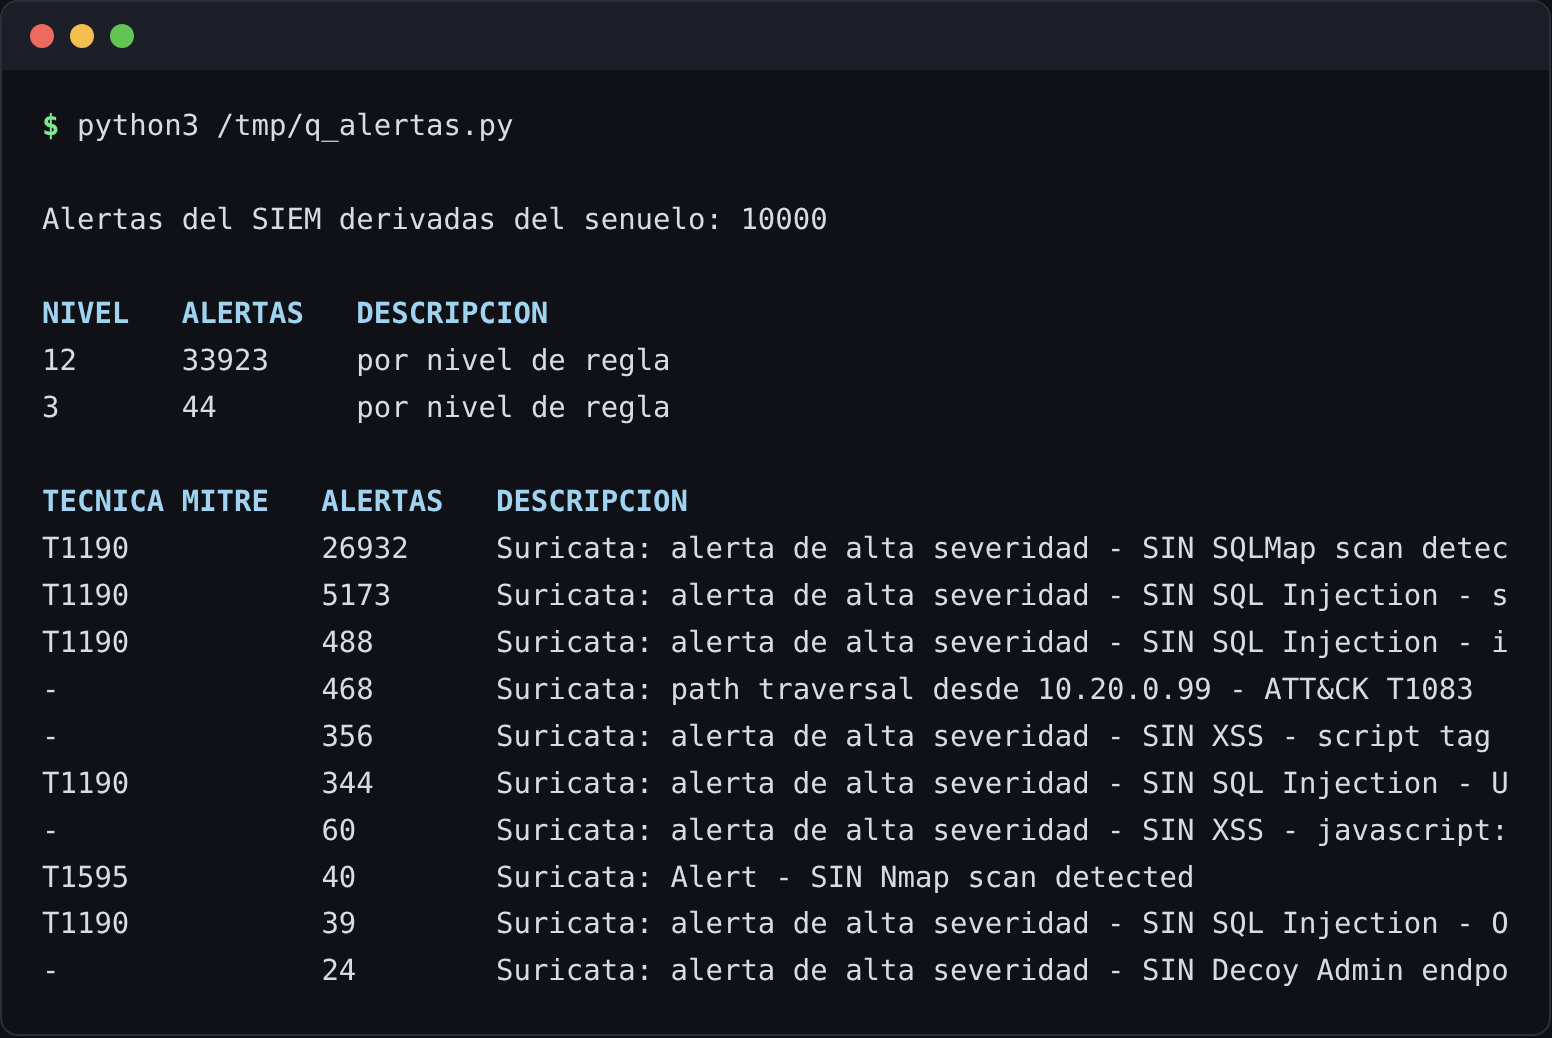
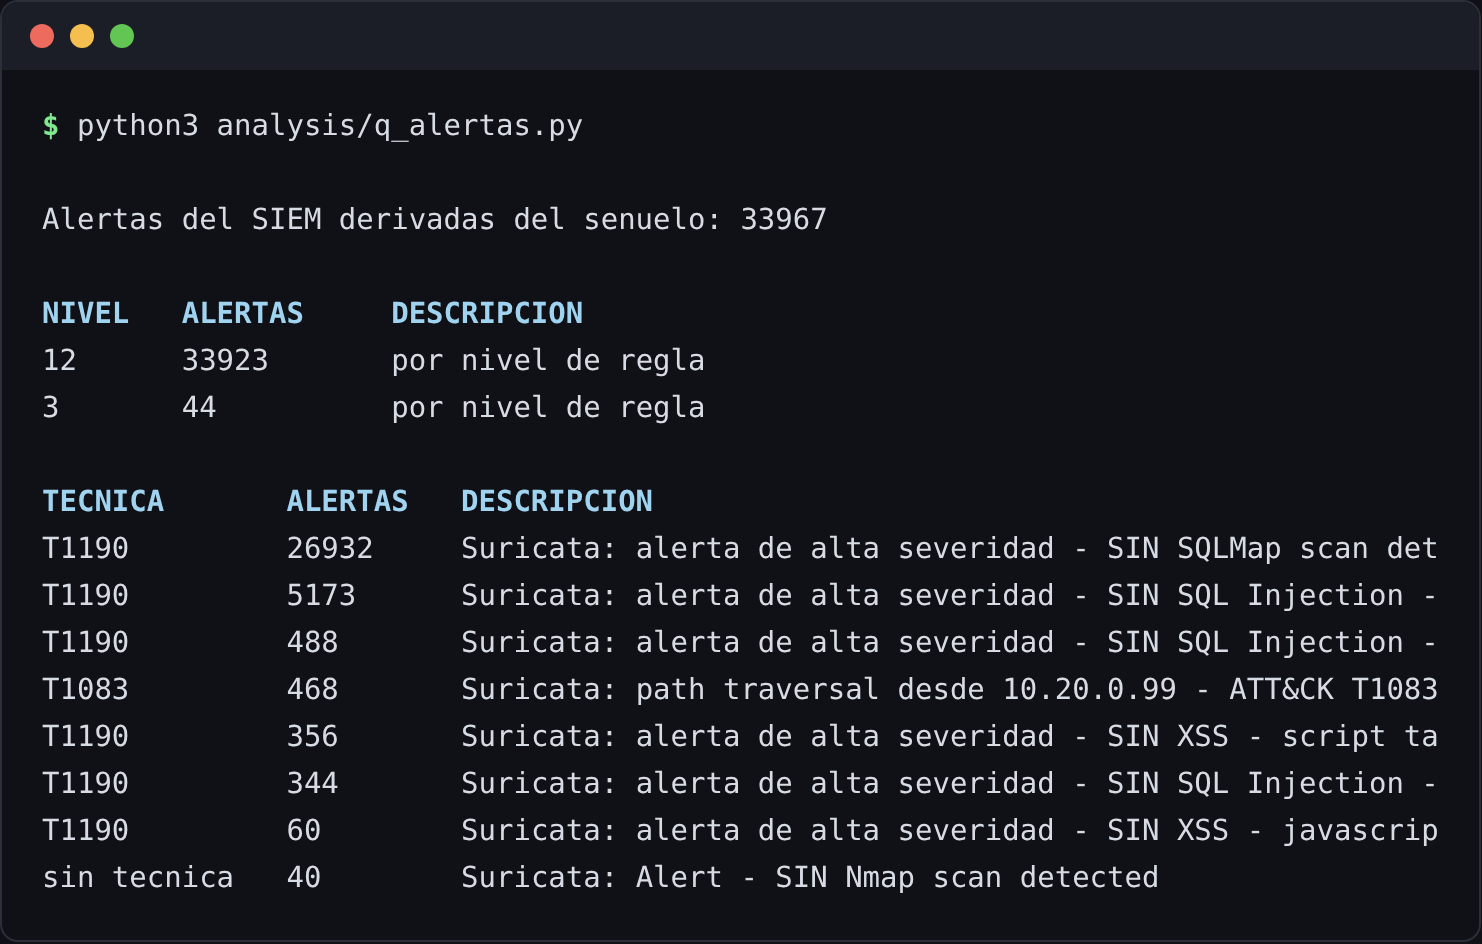
[P2] fix: filebeat neutralizado y publicador sin duplicados (193 reinicios acumulados)
El manager estaba en un bucle de reinicios: filebeat abortaba con SIGABRT y
s6 interpretaba la caida del servicio como fin del contenedor, con lo que
Docker lo reiniciaba. Se acumula ron 193 reinicios y el manager no era fiable
para capturar evidencia.

- 30-sin-publisher.sh aparta el binario real de filebeat a
  filebeat.sin-indexar y deja en su lugar un equivalente que solo espera. s6
  obtiene su servicio vivo y la indexacion sigue siendo del publicador, que no
  depende de filebeat. No sirve parchear el script de arranque de s6 porque
  /run/s6/services se crea despues de correr los entrypoint scripts.
- El control de duplicados del publicador pasa de pgrep a fichero de PID:
  pgrep contaba como coincidencia los propios procesos de consulta del script y
  el publicador llegaba a arrancar dos veces indexando en paralelo.
- Se elimina un bloque mkdir/cp duplicado en el script.

Ademas se regenera la figura de alertas del SIEM con analysis/q_alertas.py, que
lee la tecnica MITRE del propio documento y pide el total real: la version
anterior atribuia T1190 a reglas que no eran SQLi y mostraba un total topeado
por el indice.

Estado tras el arreglo: 25/25 contenedores, 0 reinicios, siete servicios
autenticados en 200 y 17/17 + 16/16 figuras verificadas.

diff --git a/evidencias/v2.1-it2/04-captura-eventos/01_wazuh-alertas-ids.html b/evidencias/v2.1-it2/04-captura-eventos/01_wazuh-alertas-ids.html
@@ -24,4 +24,4 @@
   .hueco { color:#0f1116; }
 </style></head>
 <body><div class="win"><div class="barra"><i class="p1"></i><i class="p2"></i><i class="p3"></i></div>
-<div class="cuerpo" id="c"><div class="l cmd"><span class="prompt">$ </span>python3 /tmp/q_alertas.py</div><div class="l">&nbsp;</div><div class="l">Alertas del SIEM derivadas del senuelo: 10000</div><div class="l">&nbsp;</div><div class="l"><span class="cab">NIVEL   ALERTAS   DESCRIPCION</span></div><div class="l"><span class="">12</span><span class="hueco">      </span>33923     por nivel de regla</div><div class="l"><span class="">3</span><span class="hueco">       </span>44        por nivel de regla</div><div class="l">&nbsp;</div><div class="l"><span class="cab">TECNICA MITRE   ALERTAS   DESCRIPCION</span></div><div class="l"><span class="">T1190</span><span class="hueco">           </span>26932     Suricata: alerta de alta severidad - SIN SQLMap scan detec</div><div class="l"><span class="">T1190</span><span class="hueco">           </span>5173      Suricata: alerta de alta severidad - SIN SQL Injection - s</div><div class="l"><span class="">T1190</span><span class="hueco">           </span>488       Suricata: alerta de alta severidad - SIN SQL Injection - i</div><div class="l"><span class="">-</span><span class="hueco">               </span>468       Suricata: path traversal desde 10.20.0.99 - ATT&amp;CK T1083</div><div class="l"><span class="">-</span><span class="hueco">               </span>356       Suricata: alerta de alta severidad - SIN XSS - script tag</div><div class="l"><span class="">T1190</span><span class="hueco">           </span>344       Suricata: alerta de alta severidad - SIN SQL Injection - U</div><div class="l"><span class="">-</span><span class="hueco">               </span>60        Suricata: alerta de alta severidad - SIN XSS - javascript:</div><div class="l"><span class="">T1595</span><span class="hueco">           </span>40        Suricata: Alert - SIN Nmap scan detected</div><div class="l"><span class="">T1190</span><span class="hueco">           </span>39        Suricata: alerta de alta severidad - SIN SQL Injection - O</div><div class="l"><span class="">-</span><span class="hueco">               </span>24        Suricata: alerta de alta severidad - SIN Decoy Admin endpo</div></div></div></body></html>
+<div class="cuerpo" id="c"><div class="l cmd"><span class="prompt">$ </span>python3 analysis/q_alertas.py</div><div class="l">&nbsp;</div><div class="l">Alertas del SIEM derivadas del senuelo: 33967</div><div class="l">&nbsp;</div><div class="l"><span class="cab">NIVEL   ALERTAS     DESCRIPCION</span></div><div class="l"><span class="">12</span><span class="hueco">      </span>33923       por nivel de regla</div><div class="l"><span class="">3</span><span class="hueco">       </span>44          por nivel de regla</div><div class="l">&nbsp;</div><div class="l"><span class="cab">TECNICA       ALERTAS   DESCRIPCION</span></div><div class="l"><span class="">T1190</span><span class="hueco">         </span>26932     Suricata: alerta de alta severidad - SIN SQLMap scan det</div><div class="l"><span class="">T1190</span><span class="hueco">         </span>5173      Suricata: alerta de alta severidad - SIN SQL Injection -</div><div class="l"><span class="">T1190</span><span class="hueco">         </span>488       Suricata: alerta de alta severidad - SIN SQL Injection -</div><div class="l"><span class="">T1083</span><span class="hueco">         </span>468       Suricata: path traversal desde 10.20.0.99 - ATT&amp;CK T1083</div><div class="l"><span class="">T1190</span><span class="hueco">         </span>356       Suricata: alerta de alta severidad - SIN XSS - script ta</div><div class="l"><span class="">T1190</span><span class="hueco">         </span>344       Suricata: alerta de alta severidad - SIN SQL Injection -</div><div class="l"><span class="">T1190</span><span class="hueco">         </span>60        Suricata: alerta de alta severidad - SIN XSS - javascrip</div><div class="l"><span class="">sin tecnica</span><span class="hueco">   </span>40        Suricata: Alert - SIN Nmap scan detected</div></div></div></body></html>

diff --git a/analysis/q_alertas.py b/analysis/q_alertas.py
@@ -1,0 +1,67 @@
+#!/usr/bin/env python3
+"""
+Resumen de alertas del SIEM para la evidencia del Prototipo II.
+
+Consulta el indice wazuh-alerts y muestra el total real, el reparto por nivel
+y el detalle por regla con su tecnica MITRE. La tecnica se lee del propio
+documento (rule.mitre.id) en vez de deducirse del texto de la descripcion, que
+era como se obtenian atribuciones incorrectas.
+
+Uso:
+    python3 q_alertas.py
+"""
+import base64
+import json
+import ssl
+import urllib.parse
+import urllib.request
+
+INDEXER = "https://localhost:9200"
+CRED = base64.b64encode(b"admin:admin").decode()
+CTX = ssl._create_unverified_context()
+
+CONSULTA = {
+    "size": 0,
+    "track_total_hits": True,
+    "query": {"bool": {"filter": [{"terms": {"rule.groups": ["suricata", "sin", "ids"]}}]}},
+    "aggs": {
+        "por_nivel": {"terms": {"field": "rule.level", "size": 8,
+                                "order": {"_count": "desc"}}},
+        "por_regla": {
+            "terms": {"field": "rule.description.keyword", "size": 8,
+                      "order": {"_count": "desc"}},
+            "aggs": {"tecnica": {"terms": {"field": "rule.mitre.id", "size": 3}}},
+        },
+    },
+}
+
+
+def main():
+    url = (f"{INDEXER}/wazuh-alerts/_search?"
+           + urllib.parse.urlencode({"rest_total_hits_as_int": "true"}))
+    req = urllib.request.Request(url, data=json.dumps(CONSULTA).encode(),
+                                 headers={"Authorization": f"Basic {CRED}",
+                                          "Content-Type": "application/json"})
+    d = json.load(urllib.request.urlopen(req, context=CTX, timeout=40))
+    total = d["hits"]["total"]
+    # Con rest_total_hits_as_int=true el total llega como entero plano.
+    if isinstance(total, dict):
+        total = total["value"]
+    aggs = d["aggregations"]
+
+    print(f"Alertas del SIEM derivadas del senuelo: {total}")
+    print()
+    print(f"{'NIVEL':<8}{'ALERTAS':<12}DESCRIPCION")
+    for b in aggs["por_nivel"]["buckets"]:
+        print(f"{b['key']:<8}{b['doc_count']:<12}por nivel de regla")
+    print()
+    print(f"{'TECNICA':<14}{'ALERTAS':<10}DESCRIPCION")
+    for b in aggs["por_regla"]["buckets"]:
+        # La sub-agregacion llega con su nombre como clave, no bajo "aggs".
+        tec = b.get("tecnica", {}).get("buckets", [])
+        etiqueta = tec[0]["key"] if tec else "sin tecnica"
+        print(f"{etiqueta:<14}{b['doc_count']:<10}{b['key'][:56]}")
+
+
+if __name__ == "__main__":
+    main()
